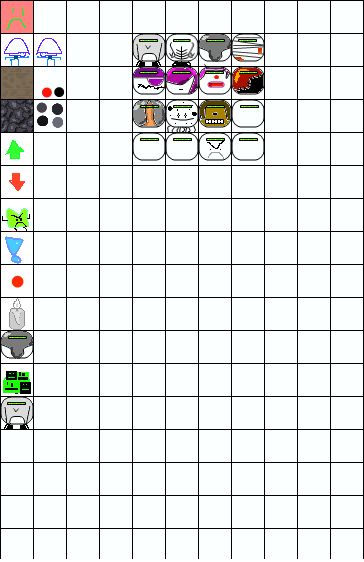
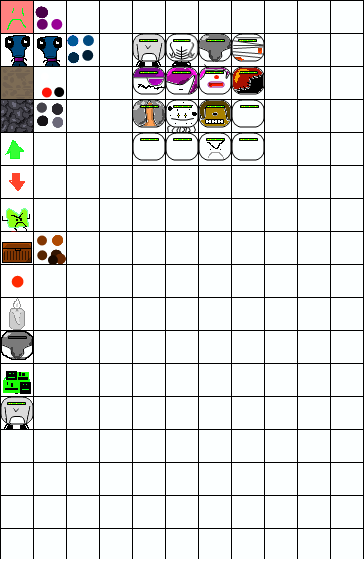
Player graphic has been redrafted, as well as the item drop graphic.

diff --git a/wlr/OGUR/OGUR/Sprites/AnimatedTexture.cs b/wlr/OGUR/OGUR/Sprites/AnimatedTexture.cs
@@ -44,7 +44,7 @@ namespace OGUR.Sprites
                          null,
                          null,
                          XnaManager.GetCamera().GetTransformation(XnaManager.GetGraphicsDevice().GraphicsDevice));
-            m_currentCell = new Rectangle(m_currentFrame*m_spriteInfo.X, m_spriteInfo.SpriteIndex*m_spriteInfo.Y,
+            m_currentCell = new Rectangle((m_currentFrame*m_spriteInfo.X)+1, (m_spriteInfo.SpriteIndex)*m_spriteInfo.Y+1,
                                           m_spriteInfo.X, m_spriteInfo.Y);
             var tempPosition = new Vector2(m_position.X, m_position.Y);
             target.Draw(m_graphic, tempPosition, m_currentCell, m_color);
